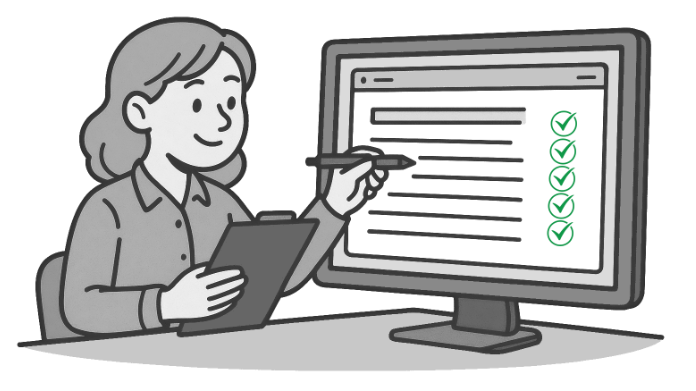
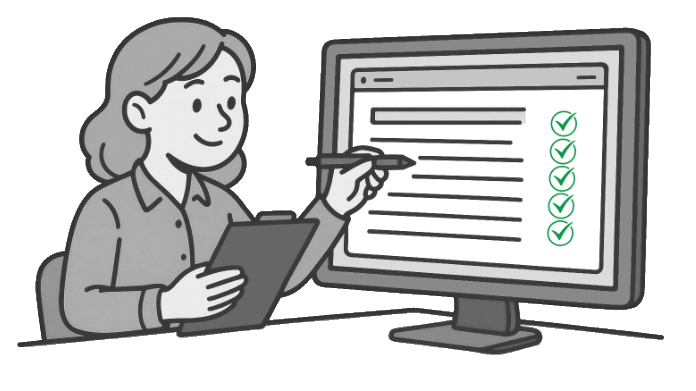
Added Regressiontest and RDF Glance, change cover image to look better in dark mode.

Changed region(s): [[0.0302, 0.798, 0.9655, 0.9514]]

diff --git a/docs/build/test-compatibility.md b/docs/build/test-compatibility.md
@@ -26,9 +26,11 @@ De 5 eisen die worden gesteld in het kader van NDE compatibiliteit komen voort u
 ✅ Linkt naar URI's van gestandaardiseerde termen via het Termennetwerk \
 ✅ Gebruik IIIF voor toegang tot beeldcollecties
 
-## Acceptatietesten
+## Acceptatie- en regressietesten
 
-Wanneer de leverancier heeft aangegeven dat de implementatie van het CBS is afgerond (wat hen betreft), is het moment aangebroken om deze implementatie goed te bekijken en te testen. Pas na een "acceptatietest" en eventuele opgeloste bevindingen, is er sprake van een afgeronde implementatie (wat veelal gepaard gaat met betaling van een laatste factuur deel). De testaanpak dient te kijken naar alle aspecten van het systeem, van functies naar datamodel, van helpteksten naar look-and-feel, van domeinnaam tot API. 
+Wanneer de leverancier heeft aangegeven dat de implementatie van het CBS is afgerond (wat hen betreft), is het moment aangebroken om deze implementatie goed te bekijken en te testen. Pas na een "acceptatietest" en eventuele opgeloste bevindingen, is er sprake van een afgeronde implementatie (wat veelal gepaard gaat met betaling van een laatste factuur deel). De testaanpak dient te kijken naar alle aspecten van het systeem, van functies naar datamodel, van helpteksten naar look-and-feel, van domeinnaam tot API.
+
+Een regressietest is een test die controleert of bestaande functionaliteit nog steeds correct werkt nadat er wijzigingen zijn aangebracht, zoals configuratiewijzigingen, code-updates, bugfixes of nieuwe functies. Het doel is om onbedoelde fouten (regressies) in reeds goedgekeurde delen van het systeem te voorkomen. Geadviseerd wordt om dit testplan ook te gebruiken om er zeker van te zijn dat het systeem nog steeds NDE-compatibel is. 
 
 ## Stappenplan
 
@@ -145,11 +147,17 @@ Met opvragen van URI's via de browser in stap 2 zijn verzoek gedaan om inhoud te
 
 Of de ontvangen linked data geldig is qua syntax kun je controleren met de RDF converter van Zazuko.
 
-➡ Ga naar [RDF converter van Zazuko](https://converter.zazuko.com) en plak de inhoud van de in bestanden opgeslagen linked data in het Input vlak. Kies in het linker paneel het juiste input formaat (waarschijnlijk `text/turtle`). Als de syntax ok is verschijnt er in het Output vlak de omgezette linked data naar JSON-LD, TriG, … Als de syntax niet ok is, dan verschijnt naast Input de rode tekst Parsing failed (zet de muis op de eerste regel in het input vlak dat rood is onderstreept en je ziet informatie over de fout). Noteer de resultaten van de controles in het werkdocument.
+➡ Ga naar [RDF converter van Zazuko](https://converter.zazuko.com) en plak de inhoud van de in bestanden opgeslagen linked data in het Input vlak. Kies in het linker paneel het juiste input formaat (waarschijnlijk `text/turtle`). Als de syntax ok is verschijnt er in het Output vlak de omgezette linked data naar JSON-LD, TriG, enz. Als de syntax niet ok is, dan verschijnt naast Input de rode tekst Parsing failed (zet de muis op de eerste regel in het input vlak dat rood is onderstreept en je ziet informatie over de fout). Noteer de resultaten van de controles in het werkdocument.
 
 ![alt_text](/img/test-converter.png "Zazuko's Converver")
 
 Het is een vereist dat de linked data (de RDF) gebruik maakt van het [schema.org](https://schema.org/) vocabulaire. Dit kun je eenvoudig zien in de datadump: worden er classes en properties gebruikt die beginnen met https://schema.org. Bij voorkeur wordt hierbij het Schema.org NDE applicatie profiel ([SCHEMA-AP-NDE](https://docs.nde.nl/schema-profile/)) gebruikt, waarin keuzes zijn gemaakt voor eenduidig gebruik en betere vindbaarheid. In de toekomst wordt gebruik van [SCHEMA-AP-NDE](https://docs.nde.nl/schema-profile/) een requirement. Daarnaast kan er de linked data in een domeinspecifiek model worden gepubliceerd, zoals Records-in-Context ([RIC-O](https://www.ica.org/resource/records-in-contexts-ontology/)), [Linked.Art](https://linked.art/) en Resource Description and Access ([RDA](https://www.rdaregistry.info/)).
+
+Als er een datadump beschikbaar is (online of één die gedownload kan worden), dan kun je deze ook inspecteren met de tool RDF Glance. Naast statistieken, gebruikten classes, kun je ook de relaties van resources en 'meta graph' bekijken. 
+
+![alt_text](/img/test-rdfglance.gif "Alba Amicorum van de KB - nationale bibliotheek geladen in RDF Glance")
+
+➡ Ga naar [RDF Glance](https://xdobry.github.io/rdfglance/) en kies in het menu 'Import RDF File' of 'Import RDF File from URL' om de RDF te laden en te inspecteren.
 
 Een vervolgtest controleert of de linked data voldoet aan het applicatie profiel Schema.org AP NDE zoals beschreven op [https://docs.nde.nl/schema-profile/](https://docs.nde.nl/schema-profile/). Voor deze test maken we gebruik van SHACL Play! van het Franse Sparna.
 
